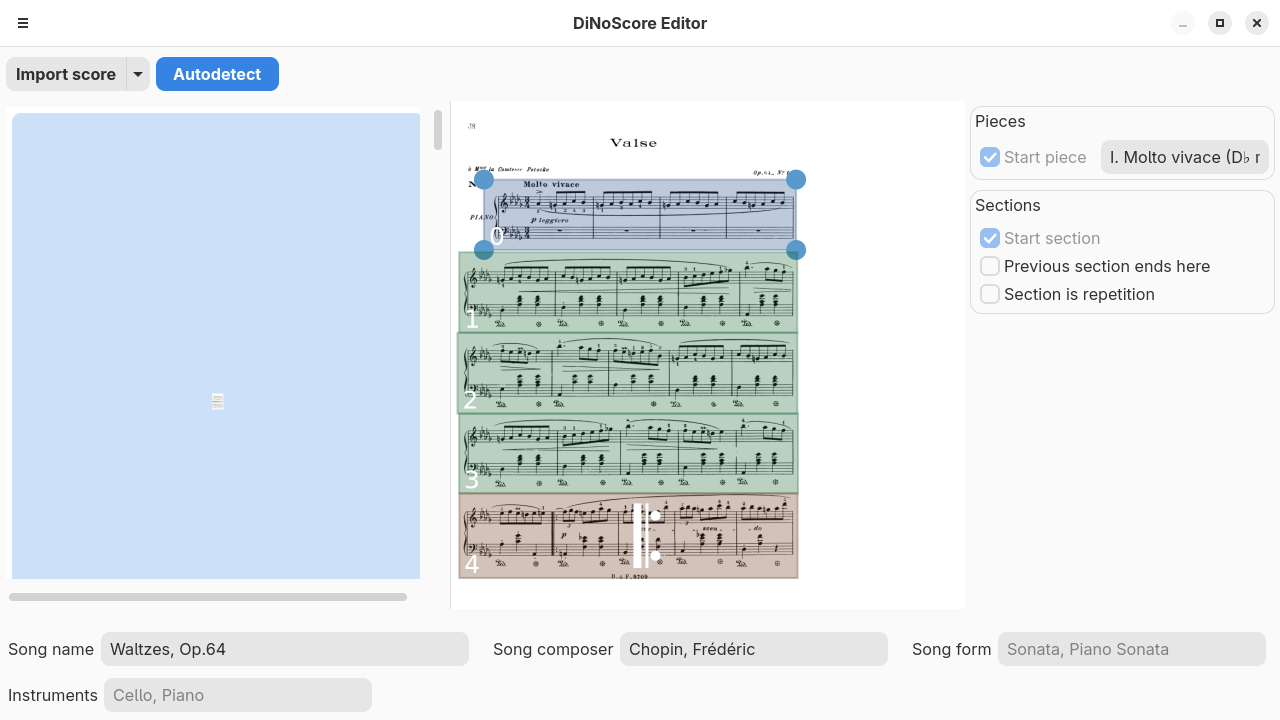
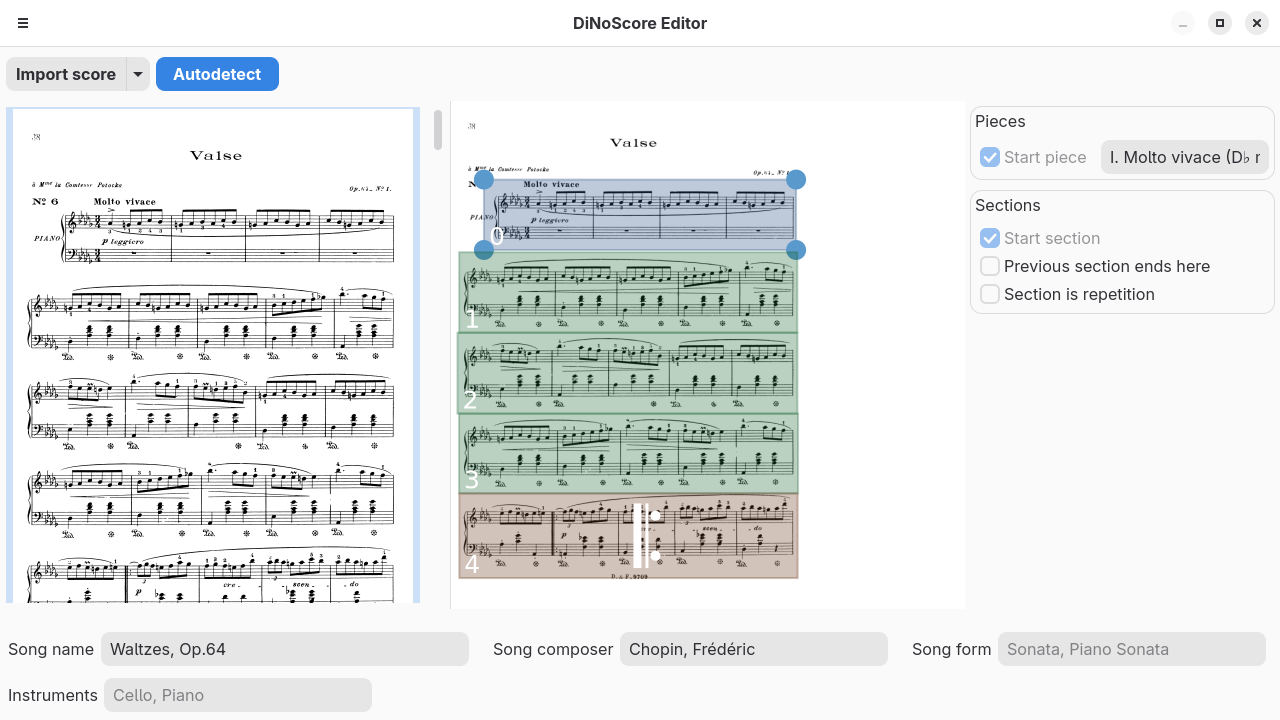
editor: Switch away from GtkIconView

Changed region(s): [[0.0, 0.1528, 0.3438, 0.8556]]

diff --git a/src/editor/main.rs b/src/editor/main.rs
@@ -73,10 +73,13 @@ mod imp {
 		add_button: TemplateChild<adw::SplitButton>,
 
 		#[template_child]
-		pub pages_preview: TemplateChild<gtk::IconView>,
-		/* Pixbufs preview cache */
-		#[template_child(id = "store_pages")]
-		pages_preview_data: TemplateChild<gtk::ListStore>,
+		pub pages_preview: TemplateChild<gtk::ListView>,
+		/// Texture thumbnail cache
+		#[template_child(id = "pages_store")]
+		pub pages_preview_data: TemplateChild<gio::ListStore>,
+		/// Selection model for pages_preview
+		#[template_child]
+		pub pages_selection: TemplateChild<gtk::MultiSelection>,
 		#[template_child]
 		autodetect: TemplateChild<gtk::Button>,
 		#[template_child]
@@ -113,6 +116,38 @@ mod imp {
 		fn constructed(&self) {
 			self.parent_constructed();
 			self.editor.init(self.file.clone());
+
+			// Set up the factory for list items
+			let factory = gtk::SignalListItemFactory::new();
+			factory.connect_setup(|_, list_item| {
+				let picture = gtk::Picture::builder()
+					.width_request(64)
+					.content_fit(gtk::ContentFit::Contain)
+					.can_shrink(false)
+					.build();
+				list_item
+					.downcast_ref::<gtk::ListItem>()
+					.unwrap()
+					.set_child(Some(&picture));
+			});
+			factory.connect_bind(|_, list_item| {
+				let list_item = list_item.downcast_ref::<gtk::ListItem>().unwrap();
+				let texture = list_item.item().and_downcast::<gdk::Texture>().unwrap();
+				let picture = list_item.child().and_downcast::<gtk::Picture>().unwrap();
+				picture.set_paintable(Some(&texture));
+			});
+			self.pages_preview.set_factory(Some(&factory));
+
+			// Connect selection changed signal
+			self.pages_selection.connect_selection_changed(
+				clone!(
+					#[weak(rename_to = this)]
+					self,
+					move |_, _, _| {
+						this.page_changed();
+					}
+				),
+			);
 		}
 	}
 
@@ -172,7 +207,7 @@ mod imp {
 		}
 
 		fn unload_and_clear(&self) {
-			self.pages_preview_data.clear();
+			self.pages_preview_data.remove_all();
 			*self.file.borrow_mut() = EditorSongFile::new();
 			self.song_name.set_text("");
 			self.song_composer.set_text("");
@@ -314,25 +349,21 @@ mod imp {
 		#[template_callback]
 		fn on_key(&self, keyval: gdk::Key) {
 			if keyval == gdk::Key::Delete || keyval == gdk::Key::KP_Delete {
-				let selected_items = self.pages_preview.selected_items();
-				selected_items
-					.iter()
-					.map(|selected| selected.indices()[0] as usize)
-					.for_each(|i| {
-						self.remove_page(PageIndex(i));
-					});
+				// Collect selected indices in reverse order to remove from end first
+				let mut selected: Vec<usize> = (0..self.pages_preview_data.n_items())
+					.filter(|&i| self.pages_selection.is_selected(i))
+					.map(|i| i as usize)
+					.collect();
+				selected.sort_by(|a, b| b.cmp(a)); // Reverse order
+				for i in selected {
+					self.remove_page(PageIndex(i));
+				}
 			}
 		}
 
 		fn remove_page(&self, page: PageIndex) {
 			self.file.borrow_mut().remove_page(page);
-
-			self.pages_preview_data.remove(
-				&self
-					.pages_preview_data
-					.iter(&gtk::TreePath::from_indices(&[*page as i32]))
-					.unwrap(),
-			);
+			self.pages_preview_data.remove(*page as u32);
 		}
 
 		/// Show a dialog to load some images, then load them
@@ -561,22 +592,22 @@ mod imp {
 			}
 
 			self.file.borrow_mut().add_page(page);
-
-			self.pages_preview_data
-				.set(&self.pages_preview_data.append(), &[(0, &gdk::pixbuf_get_from_texture(&thumbnail))]);
+			self.pages_preview_data.append(&thumbnail);
 		}
 
-		/// Callback from the icon view
-		#[template_callback]
+		/// Callback from the list view selection
 		pub fn page_changed(&self) {
-			let selected_items = self.pages_preview.selected_items();
-			log::debug!("Selection changed: {} items", selected_items.len());
-			let selected_page = match selected_items.len() {
-				0 => None,
-				1 => Some(PageIndex(selected_items[0].indices()[0] as usize)),
-				_ => None,
+			let n_selected = self.pages_selection.selection().size();
+			log::debug!("Selection changed: {} items", n_selected);
+			let selected_page = if n_selected == 1 {
+				// Find the single selected item
+				(0..self.pages_preview_data.n_items())
+					.find(|&i| self.pages_selection.is_selected(i))
+					.map(|i| PageIndex(i as usize))
+			} else {
+				None
 			};
-			self.autodetect.set_sensitive(!selected_items.is_empty());
+			self.autodetect.set_sensitive(n_selected > 0);
 			self.editor.load_page(selected_page);
 		}
 
@@ -591,12 +622,10 @@ mod imp {
 				.style_context()
 				.remove_class("suggested-action");
 
-			let selected_items = self
-				.pages_preview
-				.selected_items()
-				.into_iter()
-				.map(|selected| selected.indices()[0] as usize)
-				.collect::<std::collections::BTreeSet<_>>();
+			let selected_items: std::collections::BTreeSet<usize> = (0..self.pages_preview_data.n_items())
+				.filter(|&i| self.pages_selection.is_selected(i))
+				.map(|i| i as usize)
+				.collect();
 
 			let obj = self.obj().clone();
 
@@ -610,13 +639,12 @@ mod imp {
 					yield_now().await;
 
 					for (i, page) in selected_items.into_iter().enumerate() {
-						let data: gdk::Texture = obj.imp().pages_preview_data.get().get(
-							&obj.imp()
-								.pages_preview_data
-								.iter_nth_child(None, page as i32)
-								.unwrap(),
-							0,
-						);
+						let data: gdk::Texture = obj
+							.imp()
+							.pages_preview_data
+							.item(page as u32)
+							.and_downcast()
+							.unwrap();
 
 						// TODO already convert pixbuf to bytes here, then remove the unsafe
 						let data = unsafe { unsafe_force::Send::new(data) };
@@ -764,7 +792,7 @@ fn main() -> anyhow::Result<()> {
 
 					/* Auto-auto-detect */
 					let imp = window.imp();
-					imp.pages_preview.select_all();
+					imp.pages_selection.select_all();
 					imp.autodetect();
 				},
 			);

diff --git a/src/editor/screenshots.rs b/src/editor/screenshots.rs
@@ -99,11 +99,7 @@ fn create_screenshots() -> anyhow::Result<()> {
 		yield_now().await;
 
 		/* Select the first staff */
-		window
-			.imp()
-			.pages_preview
-			.get()
-			.select_path(&gtk::TreePath::new_first());
+		window.imp().pages_selection.select_item(0, true);
 		window.imp().editor.get().select_staff(0);
 		yield_now().await;
 
@@ -120,12 +116,7 @@ fn create_screenshots() -> anyhow::Result<()> {
 			.unwrap();
 
 		/* One more example */
-		window.imp().pages_preview.get().unselect_all();
-		window.imp().pages_preview.get().select_path(&{
-			let mut p = gtk::TreePath::new_first();
-			p.next();
-			p
-		});
+		window.imp().pages_selection.select_item(1, true);
 		window.imp().editor.get().select_staff(2);
 		yield_now().await;
 
